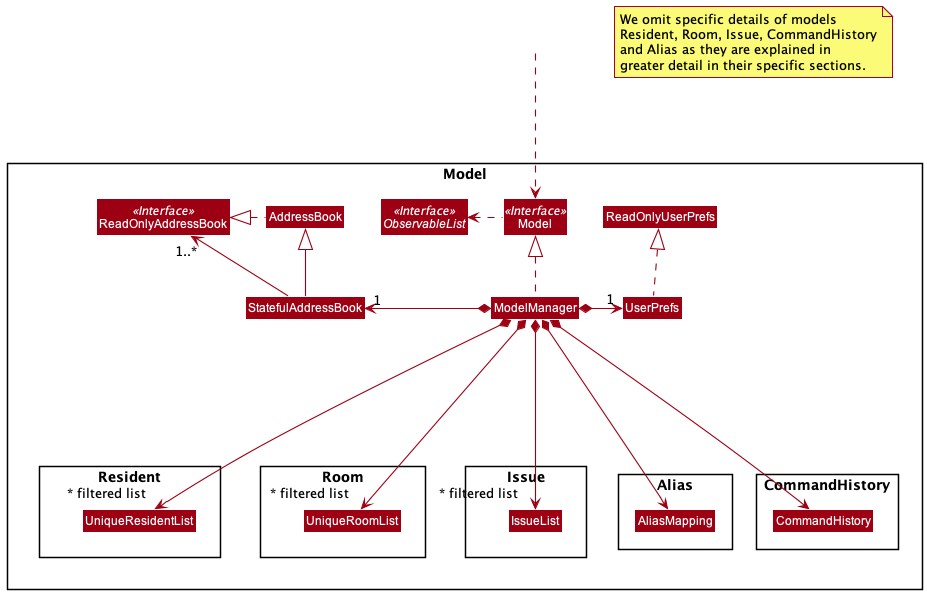
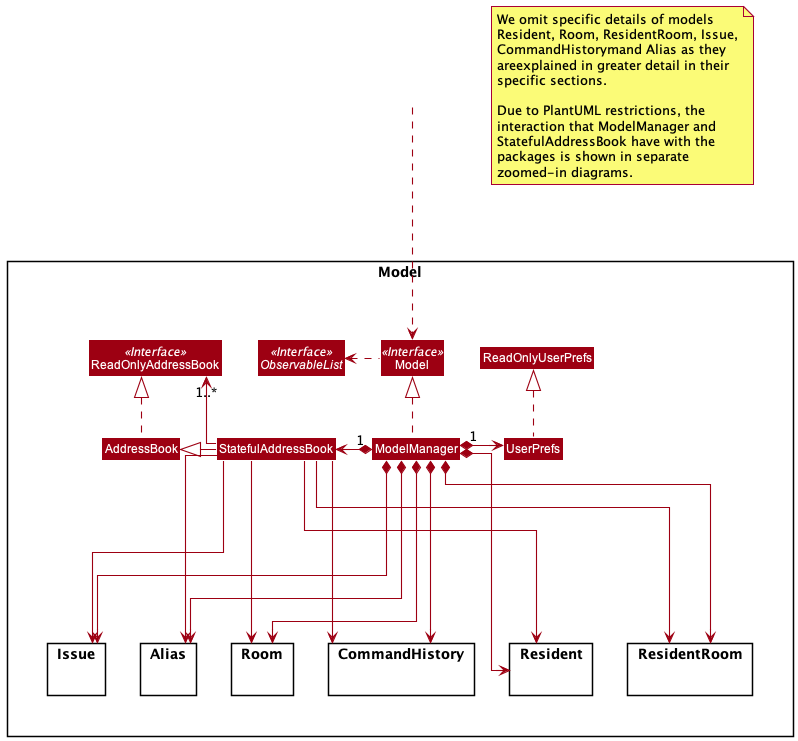
Fix(DG): Update model component's accuracy

Changed region(s): [[0.0, 0.0, 1.0, 1.0], [0.0902, 0.4242, 0.8421, 0.7273], [0.3008, 0.697, 0.3308, 0.7273]]

diff --git a/docs/DeveloperGuide.md b/docs/DeveloperGuide.md
@@ -113,6 +113,25 @@ The `Model`,
 * does not depend on any of the other three components (`Storage`, `Logic`, `UI`).
 
 
+The above diagram does not go into detail on how the specific sub-packages interact with each other. 
+This is due to both PlantUML diagramming restrictions as well as an intention to provide a high-level visualisation at the start.
+
+The section below zooms in a **little bit** on how the `ModelManager` and `StatefulAddressBook` interact with the lower level sub-packages.
+Finer details than what is shown in the section below can be seen under the implementation section of each of the models.
+
+#### Zoomed in view of Room, Resident and ResidentRoom 
+![Zoomed in view of Room, Resident and ResidentRoom](images/high-level-models/ResidentRoomZoomIn.png)
+
+#### Zoomed in view of Issue 
+![Zoomed in view of Issue](images/high-level-models/IssueZoomIn.png)
+
+#### Zoomed in view of CommandHistory 
+![Zoomed in view of CommandHistory](images/high-level-models/CommandHistoryZoomIn.png)
+
+#### Zoomed in view of Alias 
+![Zoomed in view of Alias](images/high-level-models/AliasZoomIn.png)
+
+
 ### Storage component
 
 ![Structure of the Storage Component](images/StorageClassDiagram.png)
